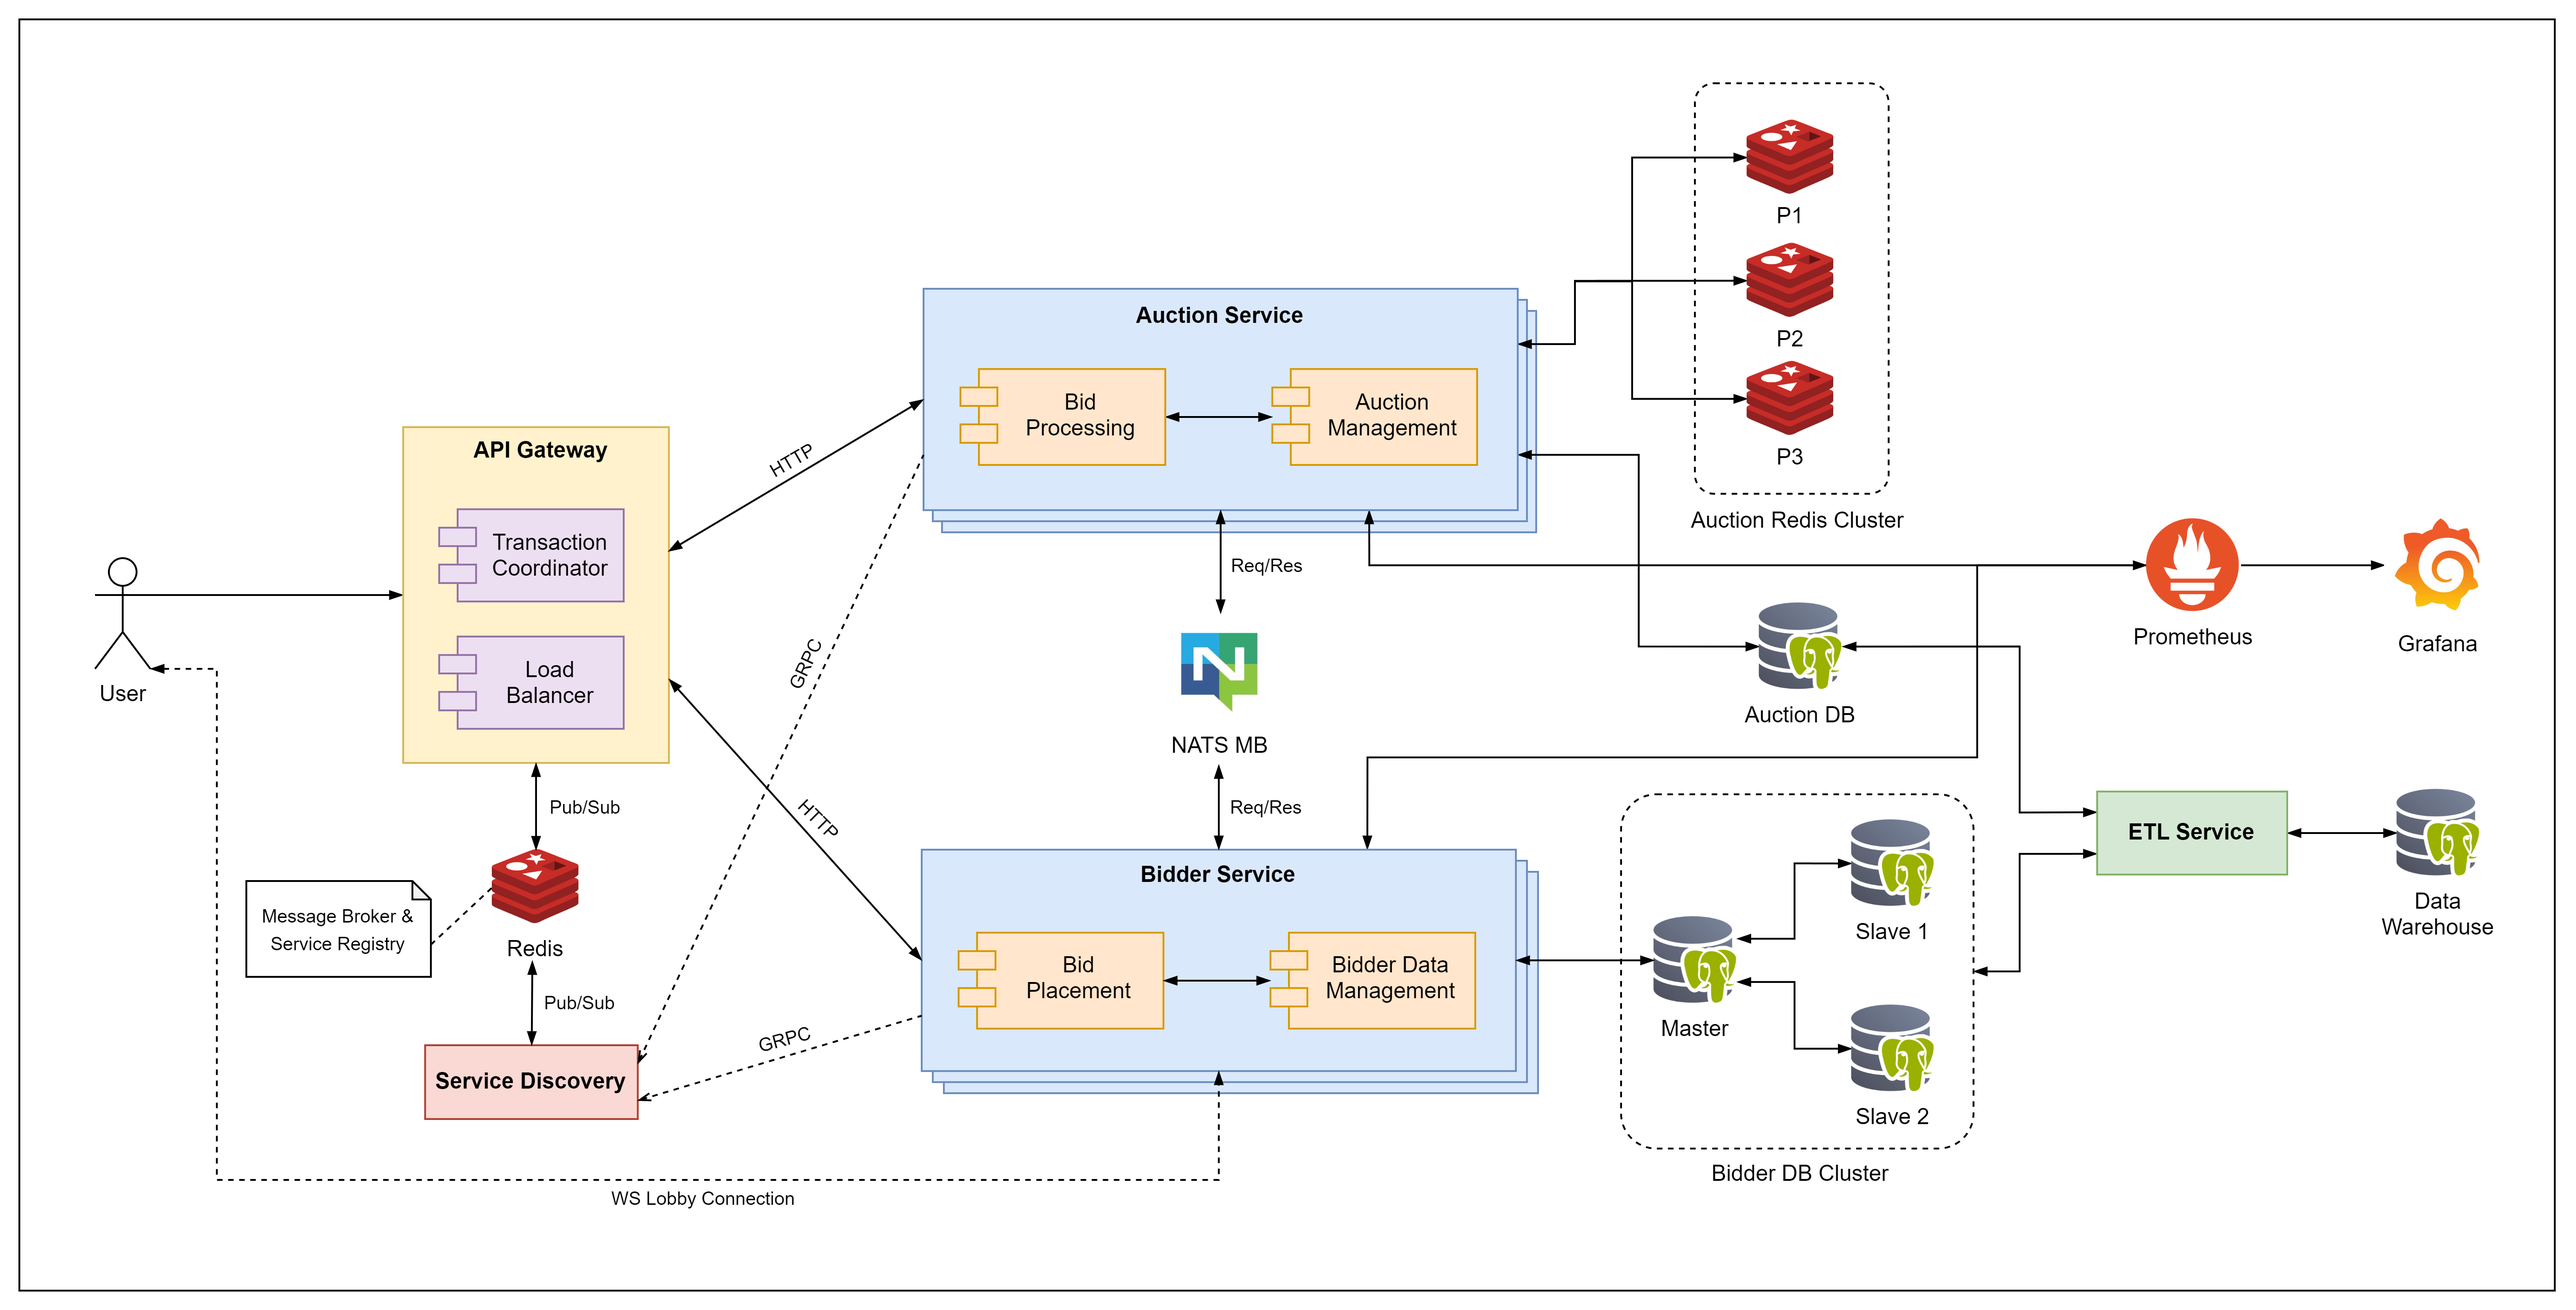
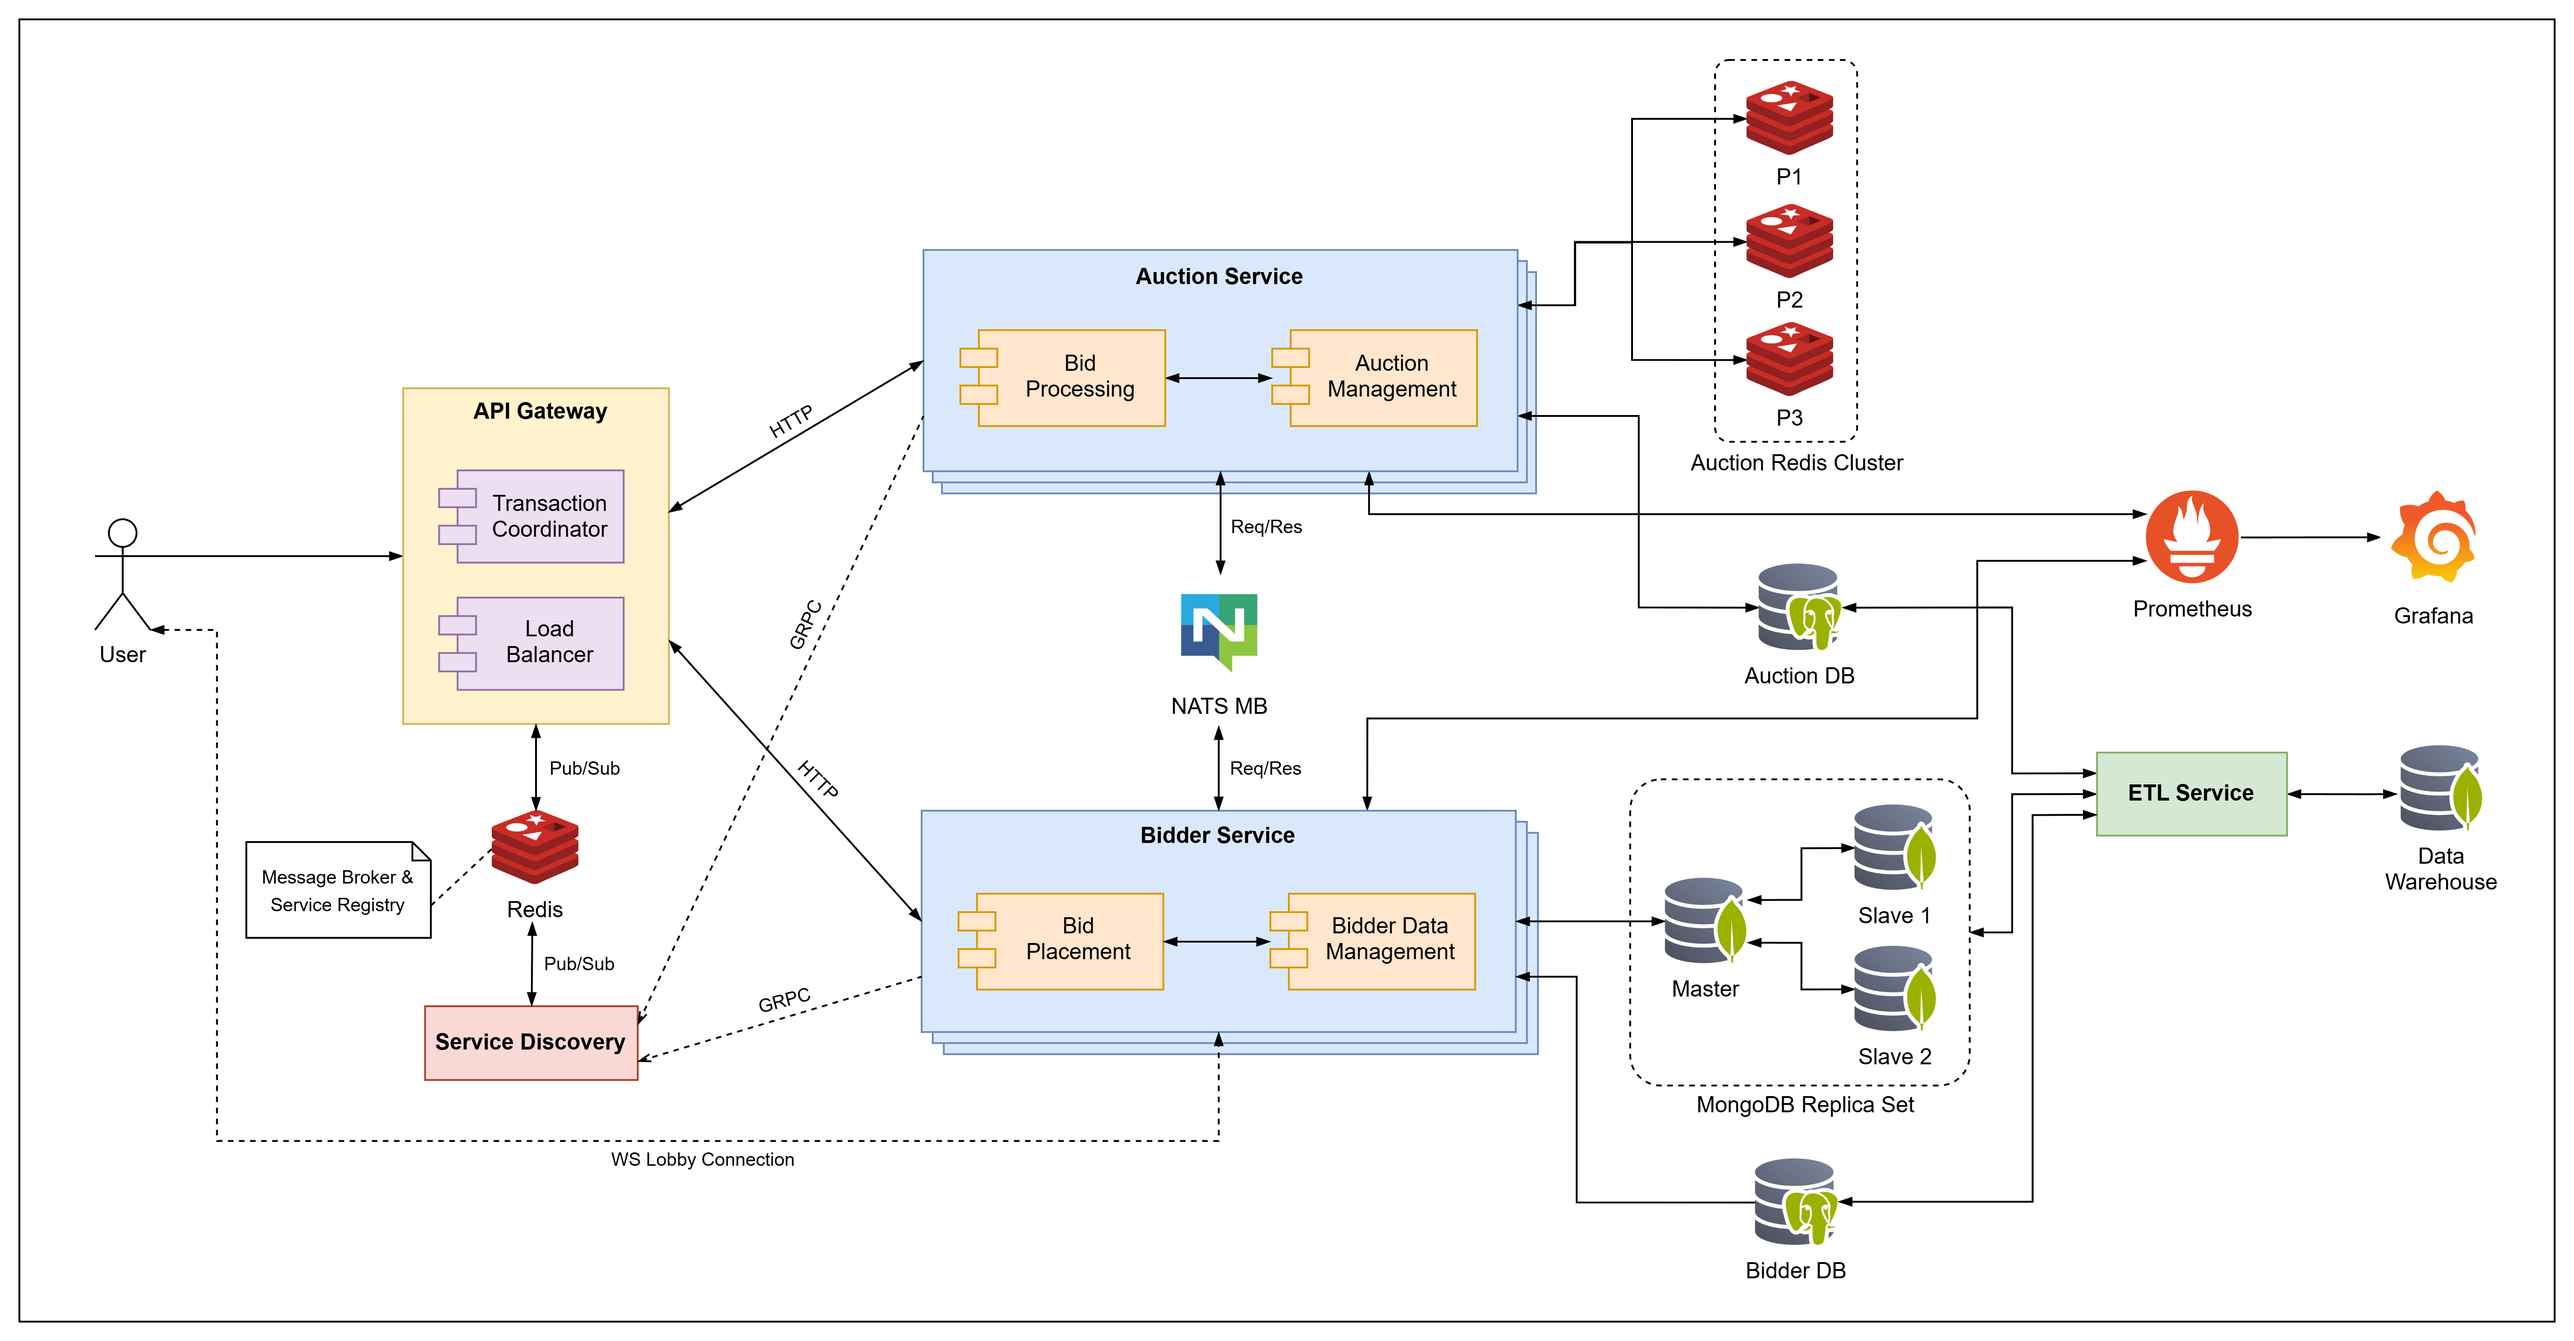
update readme

diff --git a/README.md b/README.md
@@ -32,16 +32,21 @@ For each service, follow these steps to set up environment variables:
 Example for Auction Service (`./auction-service/.env.local`):
 
 ```shell
-POSTGRES_USER=your_db_username
-POSTGRES_PASSWORD=your_db_password
+POSTGRES_USER=hp
+POSTGRES_PASSWORD=1
 POSTGRES_HOST=db-auction
 POSTGRES_PORT=5432
 POSTGRES_DB=auction_service
-REDIS_HOST=redis-auction
-REDIS_PORT=6379
+CACHE_TTL=30
+REDIS_HOST_1=redis-1
+REDIS_PORT_1=6379
+REDIS_HOST_2=redis-2
+REDIS_PORT_2=6379
+REDIS_HOST_3=redis-3
+REDIS_PORT_3=6379
 APP_HOST=localhost
 APP_PORT=3000
-APP_REQ_TIMEOUT=5000
+APP_REQ_TIMEOUT=6000
 SERVICE_REGISTRY_GRPC_URL=service-discovery:50051
 NATS_HOST=nats-server
 NATS_PORT=4222
@@ -132,7 +137,7 @@ New features:
 - Integrate Prometheus and Grafana for effective service logging and monitoring.
 - Implement a Transaction Coordinator in the API Gateway to handle 2PC and long-running transaction mechanisms, ensuring safe and atomic creation of auctions and their lobbies in the Bidder Service.
 - Add a Data Warehouse for in-depth analysis of auctions, bids, bidders, and their activity.
-- Set up a PostgreSQL cluster with three replicas (one master for read and write, and two read-only followers) to ensure redundancy and failover via customized configurations.
+- Set up a MongoDB cluster with three replicas (one master for read and write, and two read-only followers) to ensure redundancy and failover via customized configurations.
 - Deploy a Redis cluster in the auction service for sharded caching of user data, utilizing consistent hashing for efficient data distribution.
 
 ## Technology Stack & Communication Patterns
@@ -151,11 +156,11 @@ New features:
         </tr>
         <tr>
             <td>Bidder Service</td>
-            <td>Nest.js (TypeScript) + PostgreSQL</td>
+            <td>Nest.js (TypeScript) + PostgreSQL + MongoDB</td>
         </tr>
         <tr>
             <td>API Gateway</td>
-            <td rowspan=2>Flask (Python)</td>
+            <td rowspan=2>Flask (Python) + Redis</td>
         </tr>
         <tr>
             <td>Service Discovery</td>
@@ -590,6 +595,7 @@ Each service, including
 - API Gateway
 - Service Discovery
 - PostgreSQL DBs
+- MongoDBs
 - Redis
 - NATS Message Broker
 
